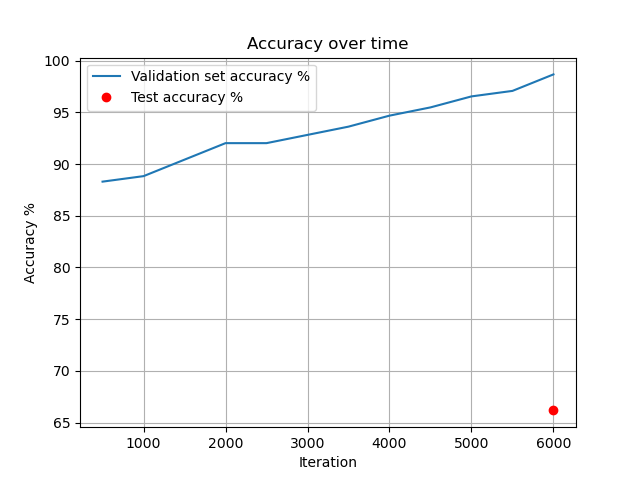
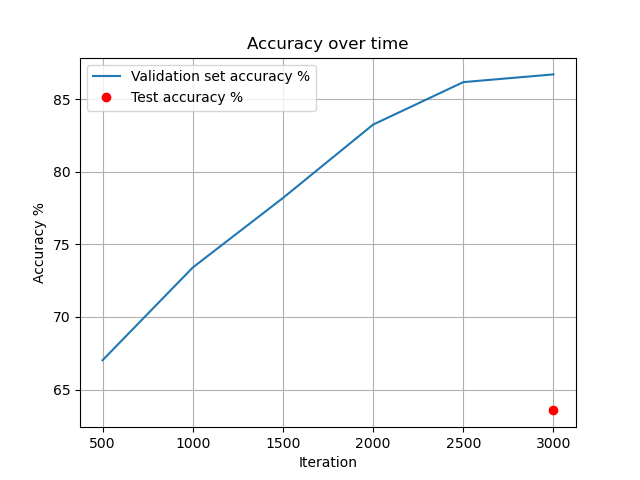
Playing With Graphs

diff --git a/fnn.py b/fnn.py
@@ -13,18 +13,19 @@ class FeedforwardNeuralNetModel(nn.Module):
         self.fc2 = nn.Linear(hidden_dim, hidden_dim * 2)  
         self.bn2 = nn.BatchNorm1d(hidden_dim * 2)
         self.fc3 = nn.Linear(hidden_dim * 2, output_dim)  
-        self.relu = nn.ReLU()
+        self.sigmoid = nn.Sigmoid()
         self.dropout = nn.Dropout(p=0.5)
     
     def forward(self, x):
+
         out = self.fc1(x)
         out = self.bn1(out)
-        out = self.relu(out)
+        out = self.sigmoid(out)
         out = self.dropout(out)
 
         out = self.fc2(out)
         out = self.bn2(out)
-        out = self.relu(out)
+        out = self.sigmoid(out)
         out = self.dropout(out)
 
         out = self.fc3(out)
@@ -65,7 +66,7 @@ dataset_features = (dataset_features - mean) / std
 test_dataset_features = (test_dataset_features - mean) / std
 
 batch_size = 100
-n_iters = 6000
+n_iters = 1000
 num_epochs = n_iters / (len(dataset_features) / batch_size)
 num_epochs = int(num_epochs)
 print(num_epochs)
@@ -141,11 +142,14 @@ for epoch in range(num_epochs):
 
 print(accuracies)
 fig, ax = plt.subplots()
+plt.figure(figsize=(12,6))
+ax = fig.add_subplot(1,2,1)
 
 ax.plot(iterations, accuracies, label="Validation set accuracy %")
 ax.set(xlabel="Iteration", ylabel="Accuracy %",
        title="Accuracy over time")
 ax.grid()
+plt.legend()
 
 model.eval()
 correct = 0
@@ -160,8 +164,21 @@ with torch.no_grad():  # Disable gradient calculation
 test_accuracy = 100 * correct / total
 print(f'Test Accuracy: {test_accuracy}%')
 
-ax.plot(iterations[-1], test_accuracy, 'ro', label="Test accuracy %")
-ax.legend()
+with open('accuracies.txt', 'a') as accuraciesFile:
+    accuraciesFile.write(str(test_accuracy))
 
+with open('accuracies.txt', 'r') as accuraciesFile:
+    accuraciesList = [float(line.strip()) for line in accuraciesFile]
+    print(accuraciesList)
+
+ax = fig.add_subplot(1,2,2)
+plt.plot(range(1,len(accuraciesList) + 1), accuraciesList, 'ro-', label="Test accuracy %")
+ax.plot(iterations[-1], test_accuracy, 'ro-', label="Test accuracy %")
+accuraciesList = []
+
+
+
+ax.legend()
+plt.tight_layout()
 fig.savefig("test.png")
 plt.show()
